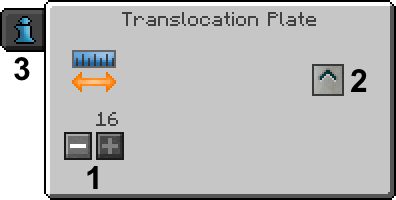
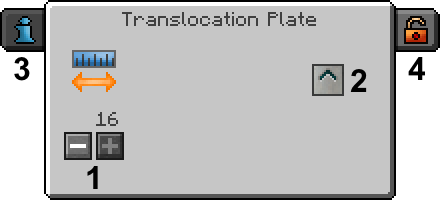
Thermal Expansion: Added Security Tabs to Plates pages

diff --git a/docs/thermal-expansion/plates/translocation-plate/index.html b/docs/thermal-expansion/plates/translocation-plate/index.html
@@ -31,4 +31,7 @@ title: Translocation Plate
     
     <dt>3. Information Tab</dt>
     <dd>Displays a bit of information about the Translocation Plate.</dd>
+    
+    <dt>4. Security Tab</dt>
+    <dd>Allows setting who is allowed to configure the Translocation Plate. Only available if a <a href="/docs/thermal-expansion/materials/signalum-security-lock">Signalum Security Lock</a> is installed.</dd>
 </dl>

diff --git a/docs/thermal-expansion/plates/redstone-plate/index.html b/docs/thermal-expansion/plates/redstone-plate/index.html
@@ -39,4 +39,7 @@ title: Redstone Plate
     
     <dt>5. Information Tab</dt>
     <dd>Displays a bit of information about the Redstone Plate.</dd>
+    
+    <dt>6. Security Tab</dt>
+    <dd>Allows setting who is allowed to configure the Redstone Plate. Only available if a <a href="/docs/thermal-expansion/materials/signalum-security-lock">Signalum Security Lock</a> is installed.</dd>
 </dl>

diff --git a/docs/thermal-expansion/plates/impulse-plate/index.html b/docs/thermal-expansion/plates/impulse-plate/index.html
@@ -36,4 +36,7 @@ title: Impulse Plate
     
     <dt>4. Information Tab</dt>
     <dd>Displays a bit of information about the Impulse Plate.</dd>
+    
+    <dt>5. Security Tab</dt>
+    <dd>Allows setting who is allowed to configure the Impulse Plate. Only available if a <a href="/docs/thermal-expansion/materials/signalum-security-lock">Signalum Security Lock</a> is installed.</dd>
 </dl>
